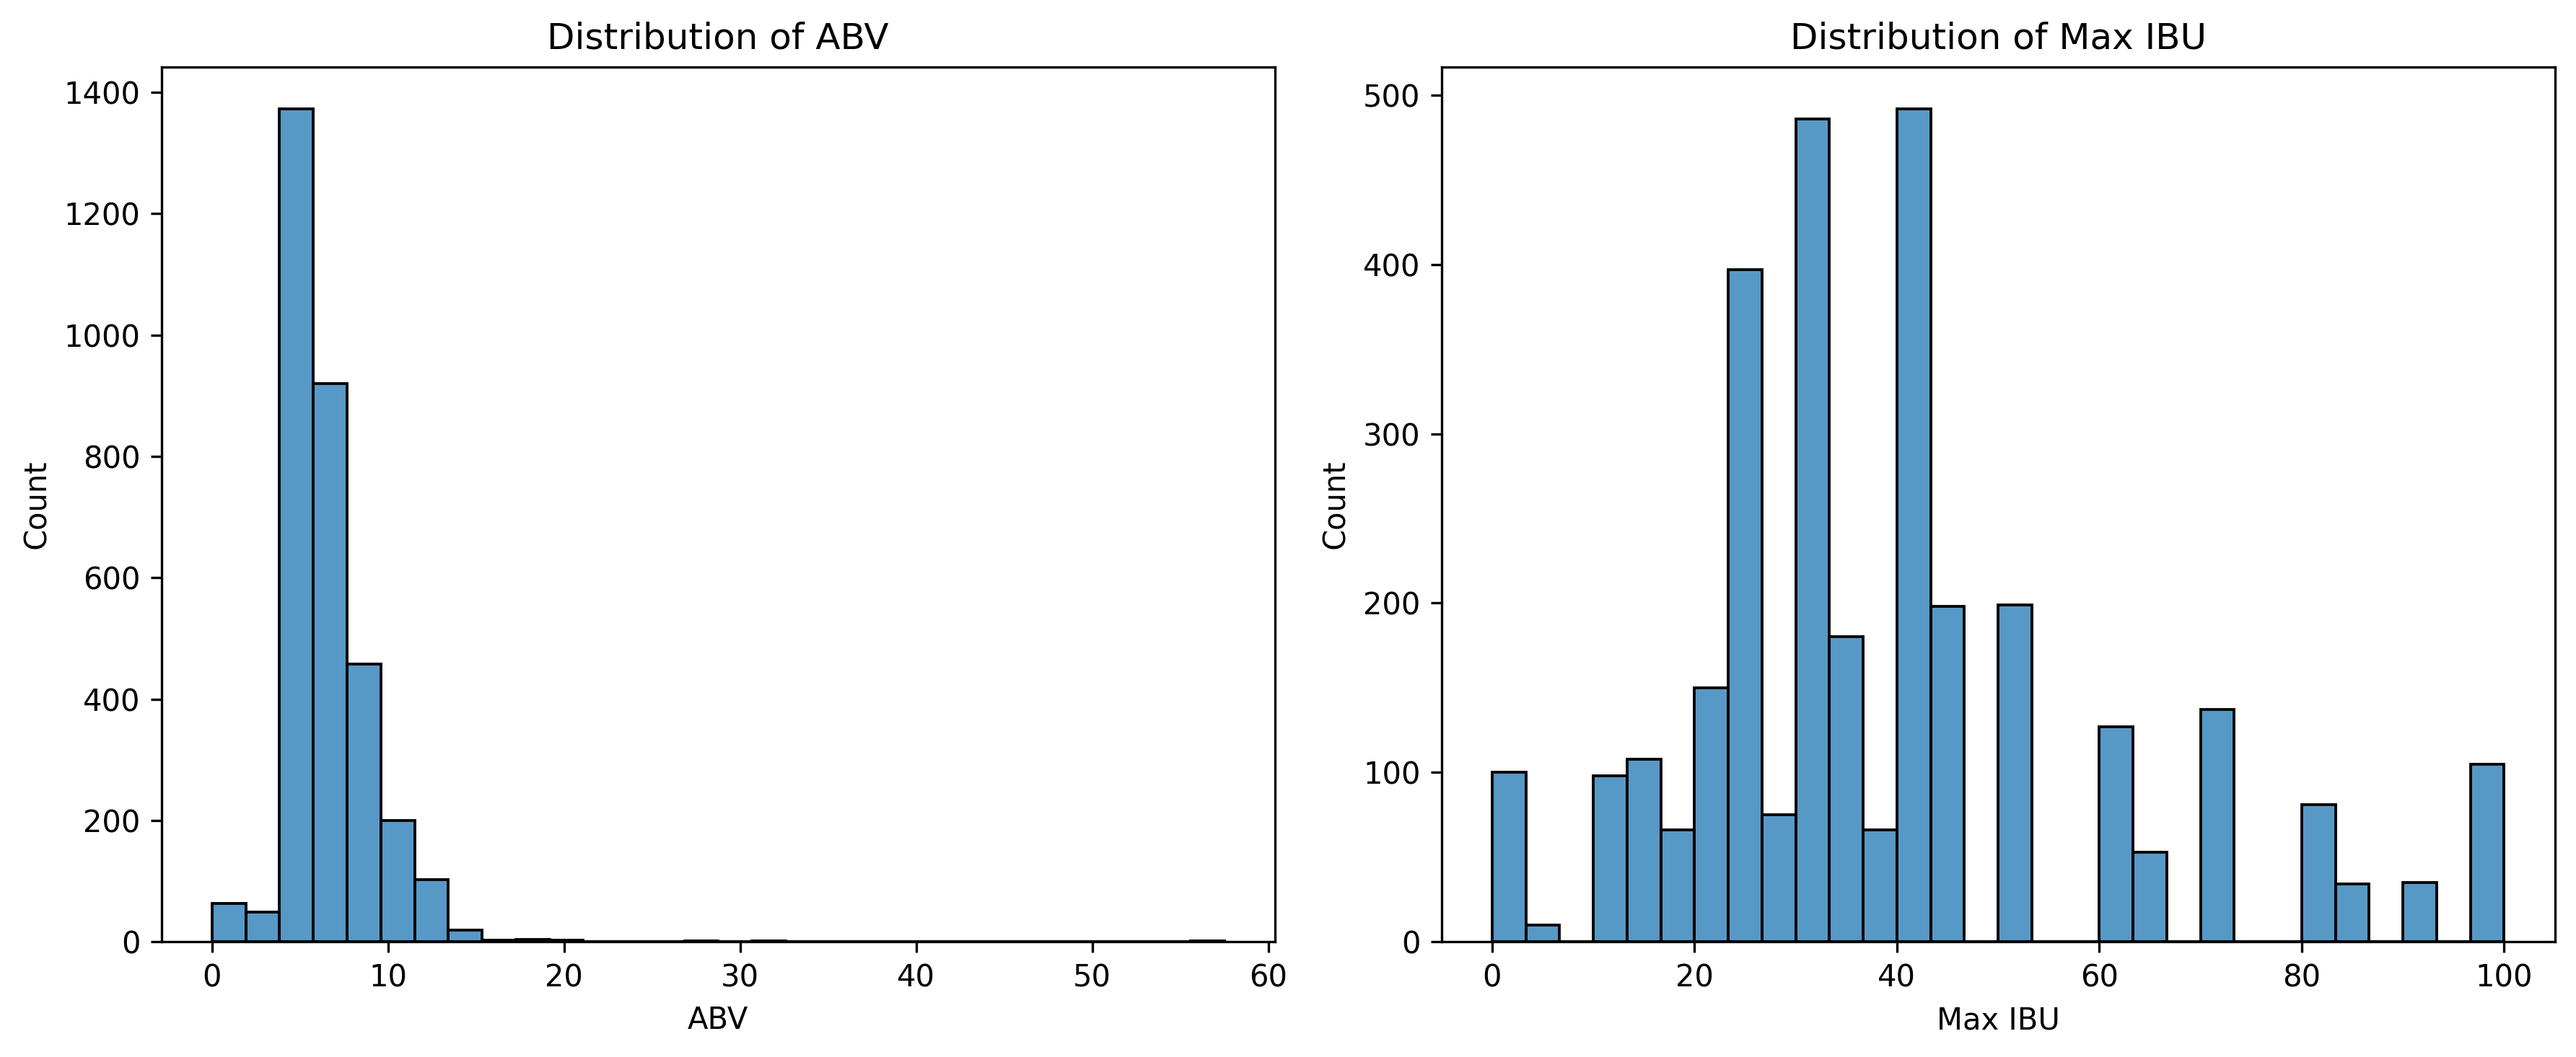
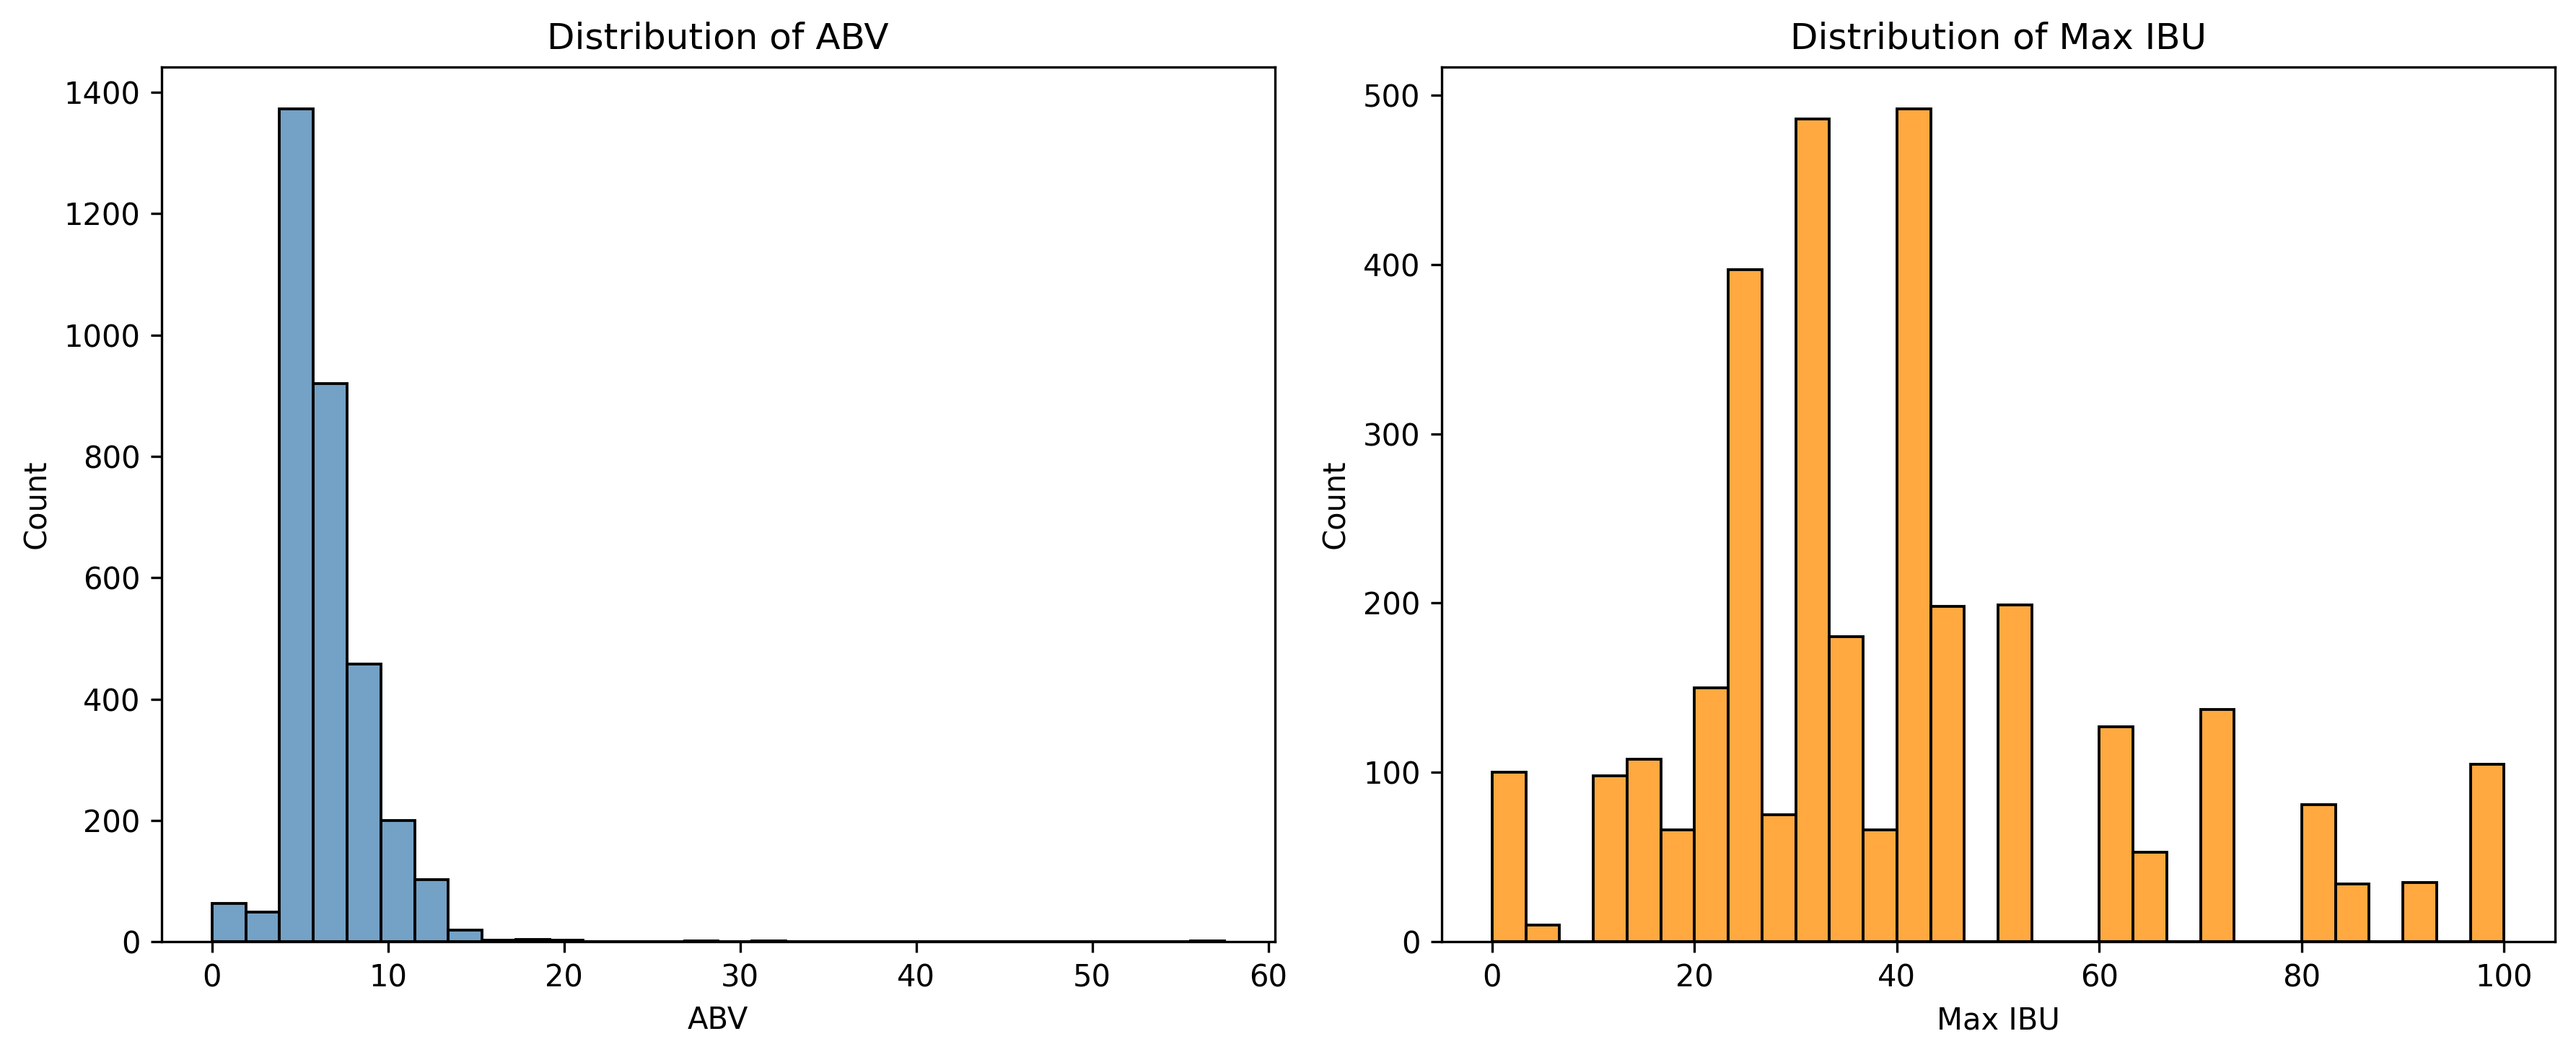
updates to plots

Changed region(s): [[0.5597, 0.0921, 0.995, 0.8902], [0.0622, 0.0921, 0.1866, 0.8902]]

diff --git a/plotter.py b/plotter.py
@@ -73,12 +73,12 @@ def ibu_and_abv_distribution(
 
     fig, ax = plt.subplots(1, 2, figsize=figsize)
 
-    sns.histplot(df_clean["abv"], bins=30, ax=ax[0])
+    sns.histplot(df_clean["abv"], bins=30, ax=ax[0], color="steelblue")
     ax[0].set_title("Distribution of ABV")
     ax[0].set_xlabel("ABV")
     ax[0].set_ylabel("Count")
 
-    sns.histplot(df_clean["max ibu"], bins=30, ax=ax[1])
+    sns.histplot(df_clean["max ibu"], bins=30, ax=ax[1], color="darkorange")
     ax[1].set_title("Distribution of Max IBU")
     ax[1].set_xlabel("Max IBU")
     ax[1].set_ylabel("Count")
@@ -90,55 +90,41 @@ def ibu_and_abv_distribution(
     return fig, ax
 
 
-def taste_profile_distribution(
-    save_path='plots/taste_profile_distribution.png',
+def taste_and_flavor_profile_comparison(
+    save_path="plots/taste_and_flavor_profile_comparison.png",
     show=False,
-    figsize=(8, 5),
+    figsize=(12, 5),
     dpi=300
 ):
-    """
-    Taste profile distributions.
-    """
     taste_cols = ["bitter", "sweet", "sour", "salty"]
-
-    taste_scaled = df_clean[taste_cols].mean()
-    taste_scaled = taste_scaled / taste_scaled.sum()
-
-    fig, ax = plt.subplots(figsize=figsize)
-
-    taste_scaled.plot(kind="bar", ax=ax)
-
-    ax.set_title("Relative Contribution of Taste Features")
-    ax.set_ylabel("Proportion")
-    ax.set_xlabel("Taste Feature")
-    ax.tick_params(axis="x", rotation=45)
-
-    fig.tight_layout()
-
-    _save_or_show(fig, save_path, show, dpi)
-
-    return fig, ax
-
-
-def flavor_profile_comparison(
-    save_path='plots/flavor_profile_comparison.png',
-    show=False,
-    figsize=(8, 5),
-    dpi=300
-):
-    """
-    Flavor profile comparison.
-    """
     flavor_cols = ["fruits", "hoppy", "spices", "malty"]
 
-    fig, ax = plt.subplots(figsize=figsize)
+    taste_means = df_clean[taste_cols].mean().sort_values(ascending=False)
+    flavor_means = df_clean[flavor_cols].mean().sort_values(ascending=False)
 
-    df_clean[flavor_cols].mean().plot(kind="bar", ax=ax)
+    fig, ax = plt.subplots(1, 2, figsize=figsize)
 
-    ax.set_title("Average Flavor Profile")
-    ax.set_ylabel("Average Intensity")
-    ax.set_xlabel("Aroma Feature")
-    ax.tick_params(axis="x", rotation=45)
+    sns.barplot(
+        x=taste_means.index,
+        y=taste_means.values,
+        ax=ax[0],
+        color="seagreen"
+    )
+    ax[0].set_title("Average Taste Profile")
+    ax[0].set_xlabel("Taste Feature")
+    ax[0].set_ylabel("Average Intensity")
+    ax[0].tick_params(axis="x", rotation=45)
+
+    sns.barplot(
+        x=flavor_means.index,
+        y=flavor_means.values,
+        ax=ax[1],
+        color="mediumpurple"
+    )
+    ax[1].set_title("Average Aroma / Flavor Profile")
+    ax[1].set_xlabel("Aroma / Flavor Feature")
+    ax[1].set_ylabel("Average Intensity")
+    ax[1].tick_params(axis="x", rotation=45)
 
     fig.tight_layout()
 
@@ -390,8 +376,7 @@ def dominant_style_by_cluster(
 
 if __name__ == '__main__':
     ibu_and_abv_distribution(show=False)
-    taste_profile_distribution(show=False)
-    flavor_profile_comparison(show=False)
+    taste_and_flavor_profile_comparison()
     correlation_matrix_of_taste_descriptors(show=False)
     rating_distribution_vs_number_of_reviews(show=False)
     selection_of_clustering_basis_by_silhouette_score(show=False)
